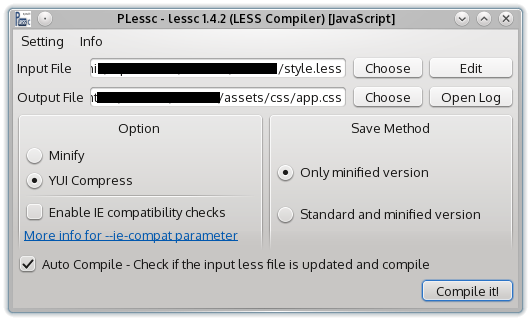
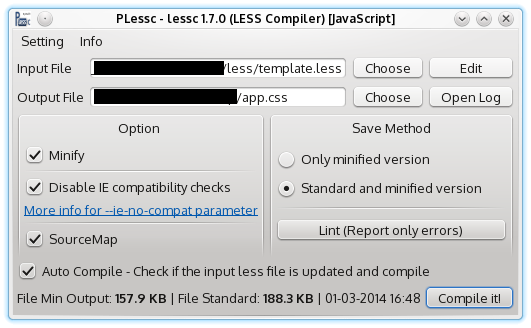
new changelog

Changed region(s): [[0.0, 0.0, 0.9944, 0.9969], [0.6629, 0.3738, 0.8136, 0.4361], [0.2109, 0.3738, 0.3013, 0.4361]]

diff --git a/README.md b/README.md
@@ -6,17 +6,23 @@ This software require:
 * lessc (node-less on many distro or npm install lessc)
 * All OS! ( *unix it's better)
 
-#ScreenShot
-![Screenshot](screenshot.png "1.0 beta")
+##ScreenShot
+![Screenshot](screenshot.png "1.1")
 
-#Feature
+##Feature
 * Log readable 
 * Open the less file with the editor choosen
 * Open all less file on the folder of the file choosen 
 * Support minify and yui-compress of lessc
 * Save a development version and a minimized (using the option)
 * Auto check if file it's modified and compile
+* Sourcemap support
+* Lint in the log area
 
-#Run
+##Changelog
 
-Execute: pless.py
+See the CHANGELOG.md file
+
+##Run
+
+Execute: plessc.py

diff --git a/CHANGELOG.md b/CHANGELOG.md
@@ -1,0 +1,16 @@
+#1.1
+* [Feature] Sourcemap support
+* [Feature] Lint in the log area
+* [Feature] Autocomplete with history
+* [Mini Feature] Wait cursor on compile
+* [Bugfix] Correct file size showed
+* [Bugfix] Log output
+* [Removed] YUI Compress obsolete
+
+#1.0 Beta
+* Log readable 
+* Open the less file with the editor choosen
+* Open all less file on the folder of the file choosen 
+* Support minify and yui-compress of lessc
+* Save a development version and a minimized (using the option)
+* Auto check if file it's modified and compile 
